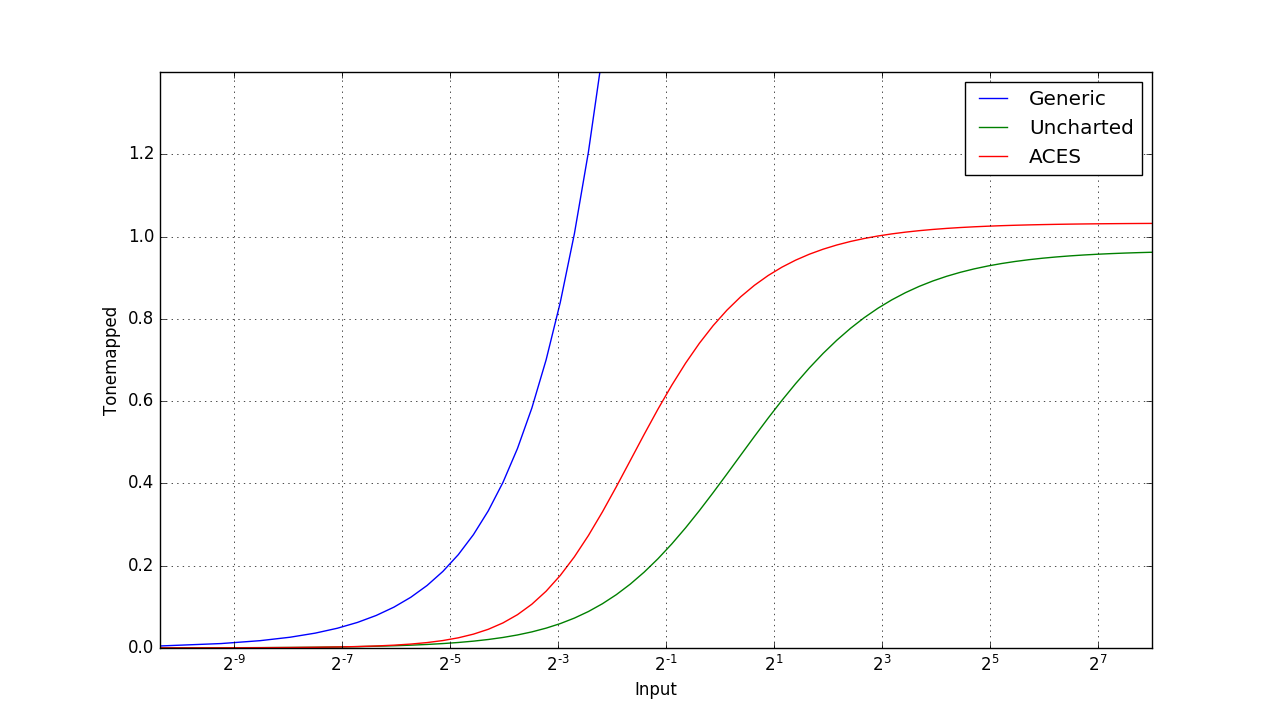
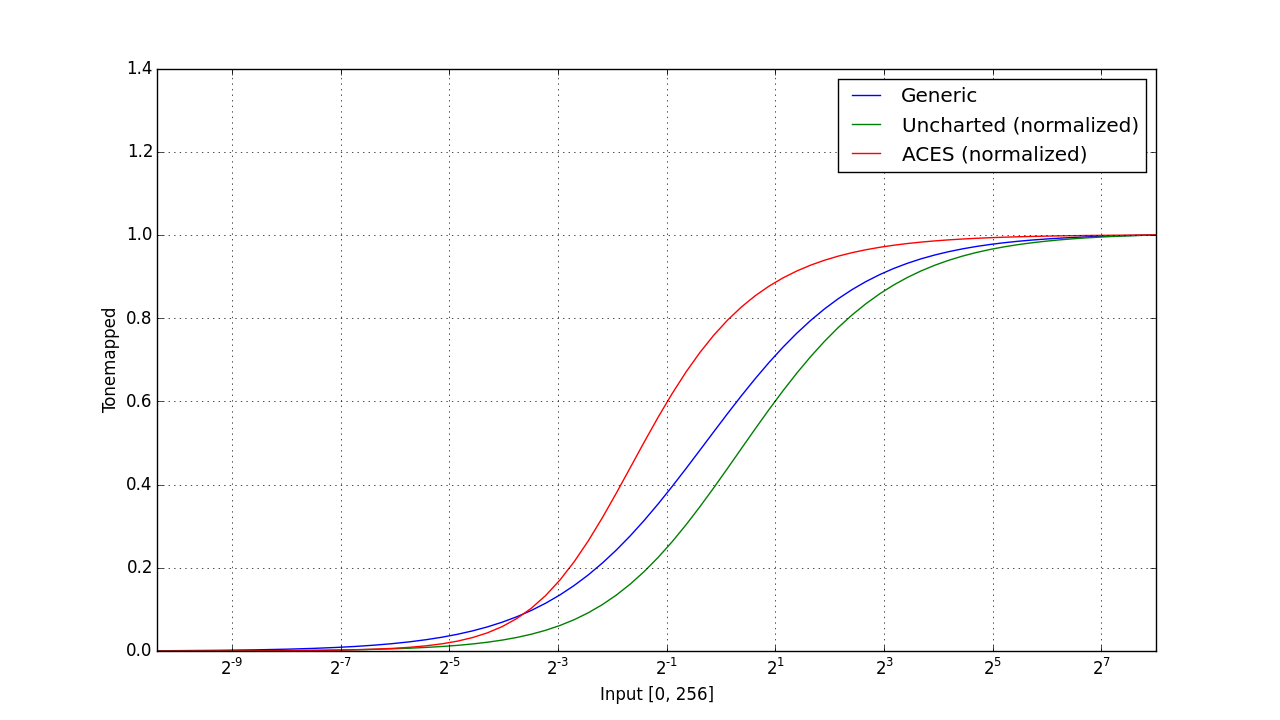
Updated with Bart's fixes

diff --git a/tonemapper.py b/tonemapper.py
@@ -3,20 +3,19 @@ import math
 import numpy
 
 # Generic like in http://32ipi028l5q82yhj72224m8j.wpengine.netdna-cdn.com/wp-content/uploads/2016/03/GdcVdrLottes.pdf
-def generic(x):
+# but with corrections like in https://bartwronski.com/2016/09/01/dynamic-range-and-evs/comment-page-1/#comment-2360
+def generic(x, hdr_max):
     a = 1 # contrast
     d = 1 # shoulder
 
     mid_in = 0.18
     mid_out = 0.18
 
-    hdr_max = 1
-
-    denom = math.pow(math.pow(hdr_max, a), d) - math.pow(math.pow(mid_in, a), d) * mid_out
+    ad = a * d
     
-    b = (-math.pow(mid_in, a) + math.pow(hdr_max, a) * mid_out) / denom
+    b = -((-math.pow(mid_in,a) + (mid_out*(math.pow(hdr_max,ad)*math.pow(mid_in,a) - math.pow(hdr_max,a)*pow(mid_in,ad)*mid_out))/ (math.pow(hdr_max,ad)*mid_out - math.pow(mid_in,ad)*mid_out))/ (math.pow(mid_in,ad)*mid_out))
 
-    c = (math.pow(math.pow(hdr_max, a), d) * math.pow(mid_in, a) - math.pow(hdr_max, a) * math.pow(math.pow(mid_in, a), d) * mid_out) / denom
+    c = (math.pow(hdr_max, ad) * math.pow(mid_in, a) - math.pow(hdr_max, a) * math.pow(mid_in, ad) * mid_out) / (math.pow(hdr_max,ad) * mid_out - math.pow(mid_in, ad) * mid_out)
 
     z = math.pow(x, a)
     y = z / (math.pow(z, d) * b + c)
@@ -34,6 +33,9 @@ def uncharted(x):
 
     return ((x * (a * x + c * b) + d * e) / (x * (a * x + b) + d * f)) - e / f
 
+def normalized_uncharted(x, hdr_max):
+    return uncharted(x) / uncharted(hdr_max)
+
 # ACES like in https://knarkowicz.wordpress.com/2016/01/06/aces-filmic-tone-mapping-curve/
 def aces(x):
     a = 2.51
@@ -44,6 +46,9 @@ def aces(x):
 
     return (x * (a * x + b)) / (x * (c * x + d) + e)
 
+def normalized_aces(x, hdr_max):
+    return aces(x) / aces(hdr_max)
+
 # Plot the tonemapping curves
 plt.figure(figsize=(12.8, 7.2), dpi=120)
 
@@ -52,20 +57,24 @@ color_generic = []
 color_uncharted = []
 color_aces = []
 
+hdr_max = 256.0
+
 for x in numpy.logspace(-8, 8, num=64, base=2):
     color = x - math.pow(2, -8)
     color_in.append(color)
-    color_generic.append(generic(color))
-    color_uncharted.append(uncharted(color))
-    color_aces.append(aces(color))
+    color_generic.append(generic(color, hdr_max))
+    #color_uncharted.append(uncharted(color))
+    color_uncharted.append(normalized_uncharted(color, hdr_max))
+    #color_aces.append(aces(color))
+    color_aces.append(normalized_aces(color, hdr_max))
 
 plt.semilogx(color_in, color_generic, basex=2, label='Generic')
-plt.plot(color_in, color_uncharted, label='Uncharted')
-plt.plot(color_in, color_aces, label='ACES')
+plt.plot(color_in, color_uncharted, label='Uncharted (normalized)')
+plt.plot(color_in, color_aces, label='ACES (normalized)')
 
 plt.axis([0, 255, 0, 1.4])
 plt.legend()
-plt.xlabel('Input')
+plt.xlabel('Input [0, 256]')
 plt.ylabel('Tonemapped')
 plt.grid(True)
 

diff --git a/README.md b/README.md
@@ -3,8 +3,8 @@
 A python script to debug tonemapping operators.
 It compares the following tonemappers:
 
-1. [Timothy Lottes Generic](http://32ipi028l5q82yhj72224m8j.wpengine.netdna-cdn.com/wp-content/uploads/2016/03/GdcVdrLottes.pdf)
-2. [John Hable "Uncharted" Filmic](http://filmicgames.com/archives/75Jo)
+1. [Timothy Lottes Generic](http://32ipi028l5q82yhj72224m8j.wpengine.netdna-cdn.com/wp-content/uploads/2016/03/GdcVdrLottes.pdf) with [Fixes from Bart Wronski](https://bartwronski.com/2016/09/01/dynamic-range-and-evs/comment-page-1/)
+2. [John Hable "Uncharted" Filmic](http://filmicgames.com/archives/75)
 3. [Krzysztof Narkowicz ACES approximation](https://knarkowicz.wordpress.com/2016/01/06/aces-filmic-tone-mapping-curve/)
 
 ![Tonemapper comparison](https://github.com/Opioid/tonemapper/blob/master/tonemapper.png "Tonemapper comparison")
@@ -15,6 +15,6 @@ The settings for the Generic Tonemapper are:
 - Shoulder = 1
 - Mid in   = 0.18
 - Mit out  = 0.18
-- HDR max  = 1
+- HDR max  = 256
 
-Clearly, there is something wrong here...
+Both the Uncharted and ACES curve have been normalized to 256.
